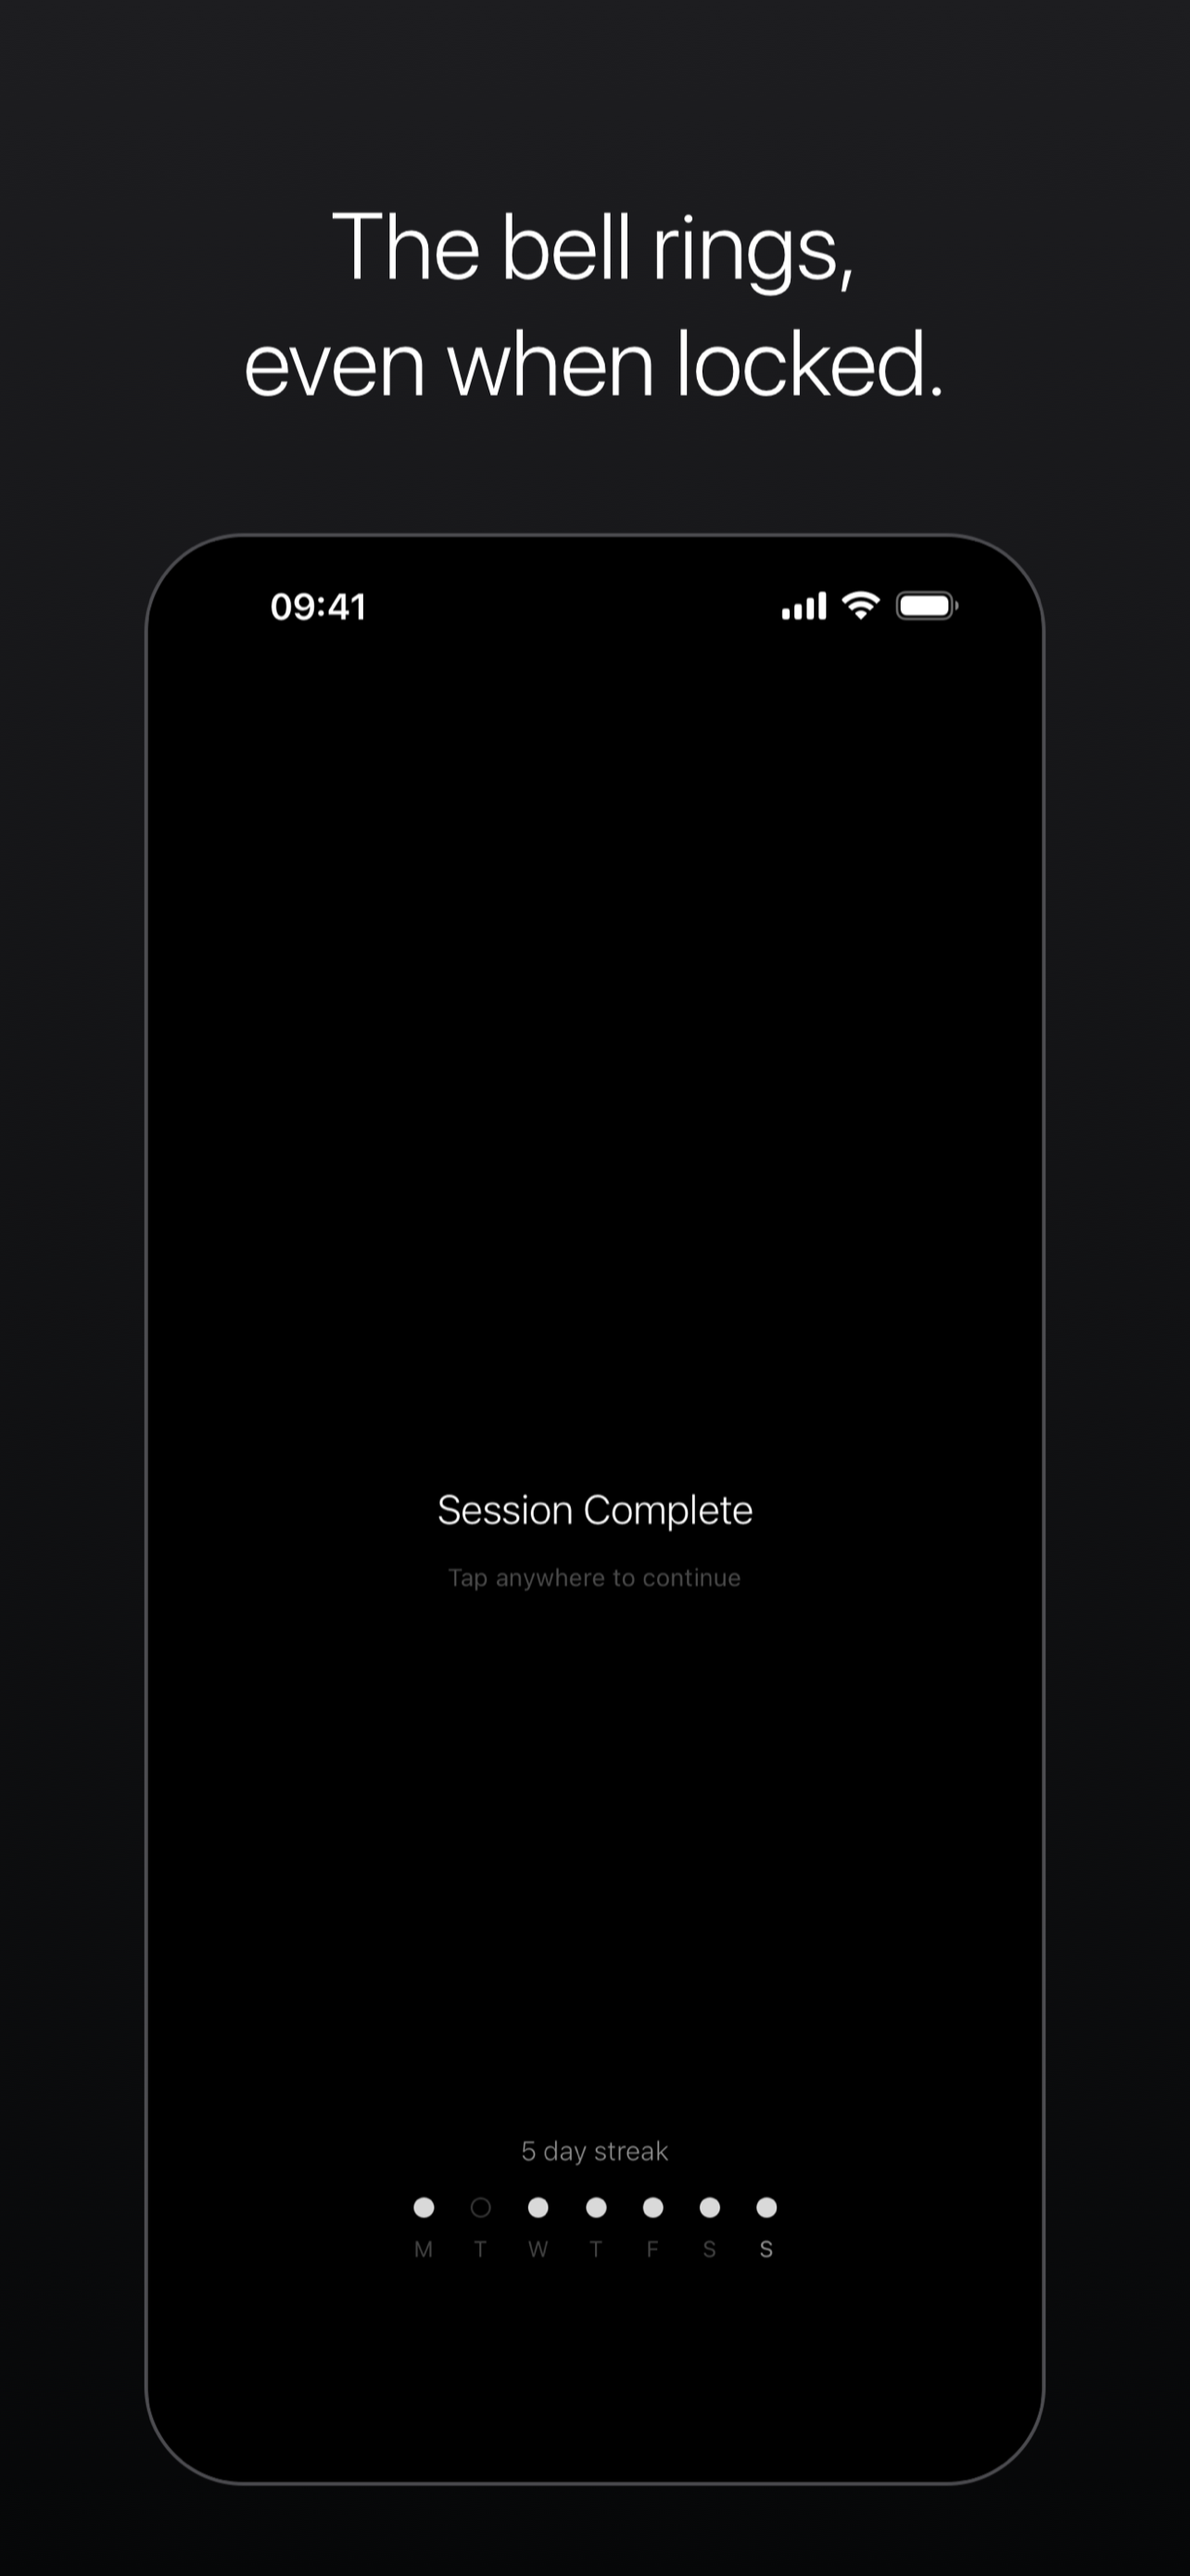
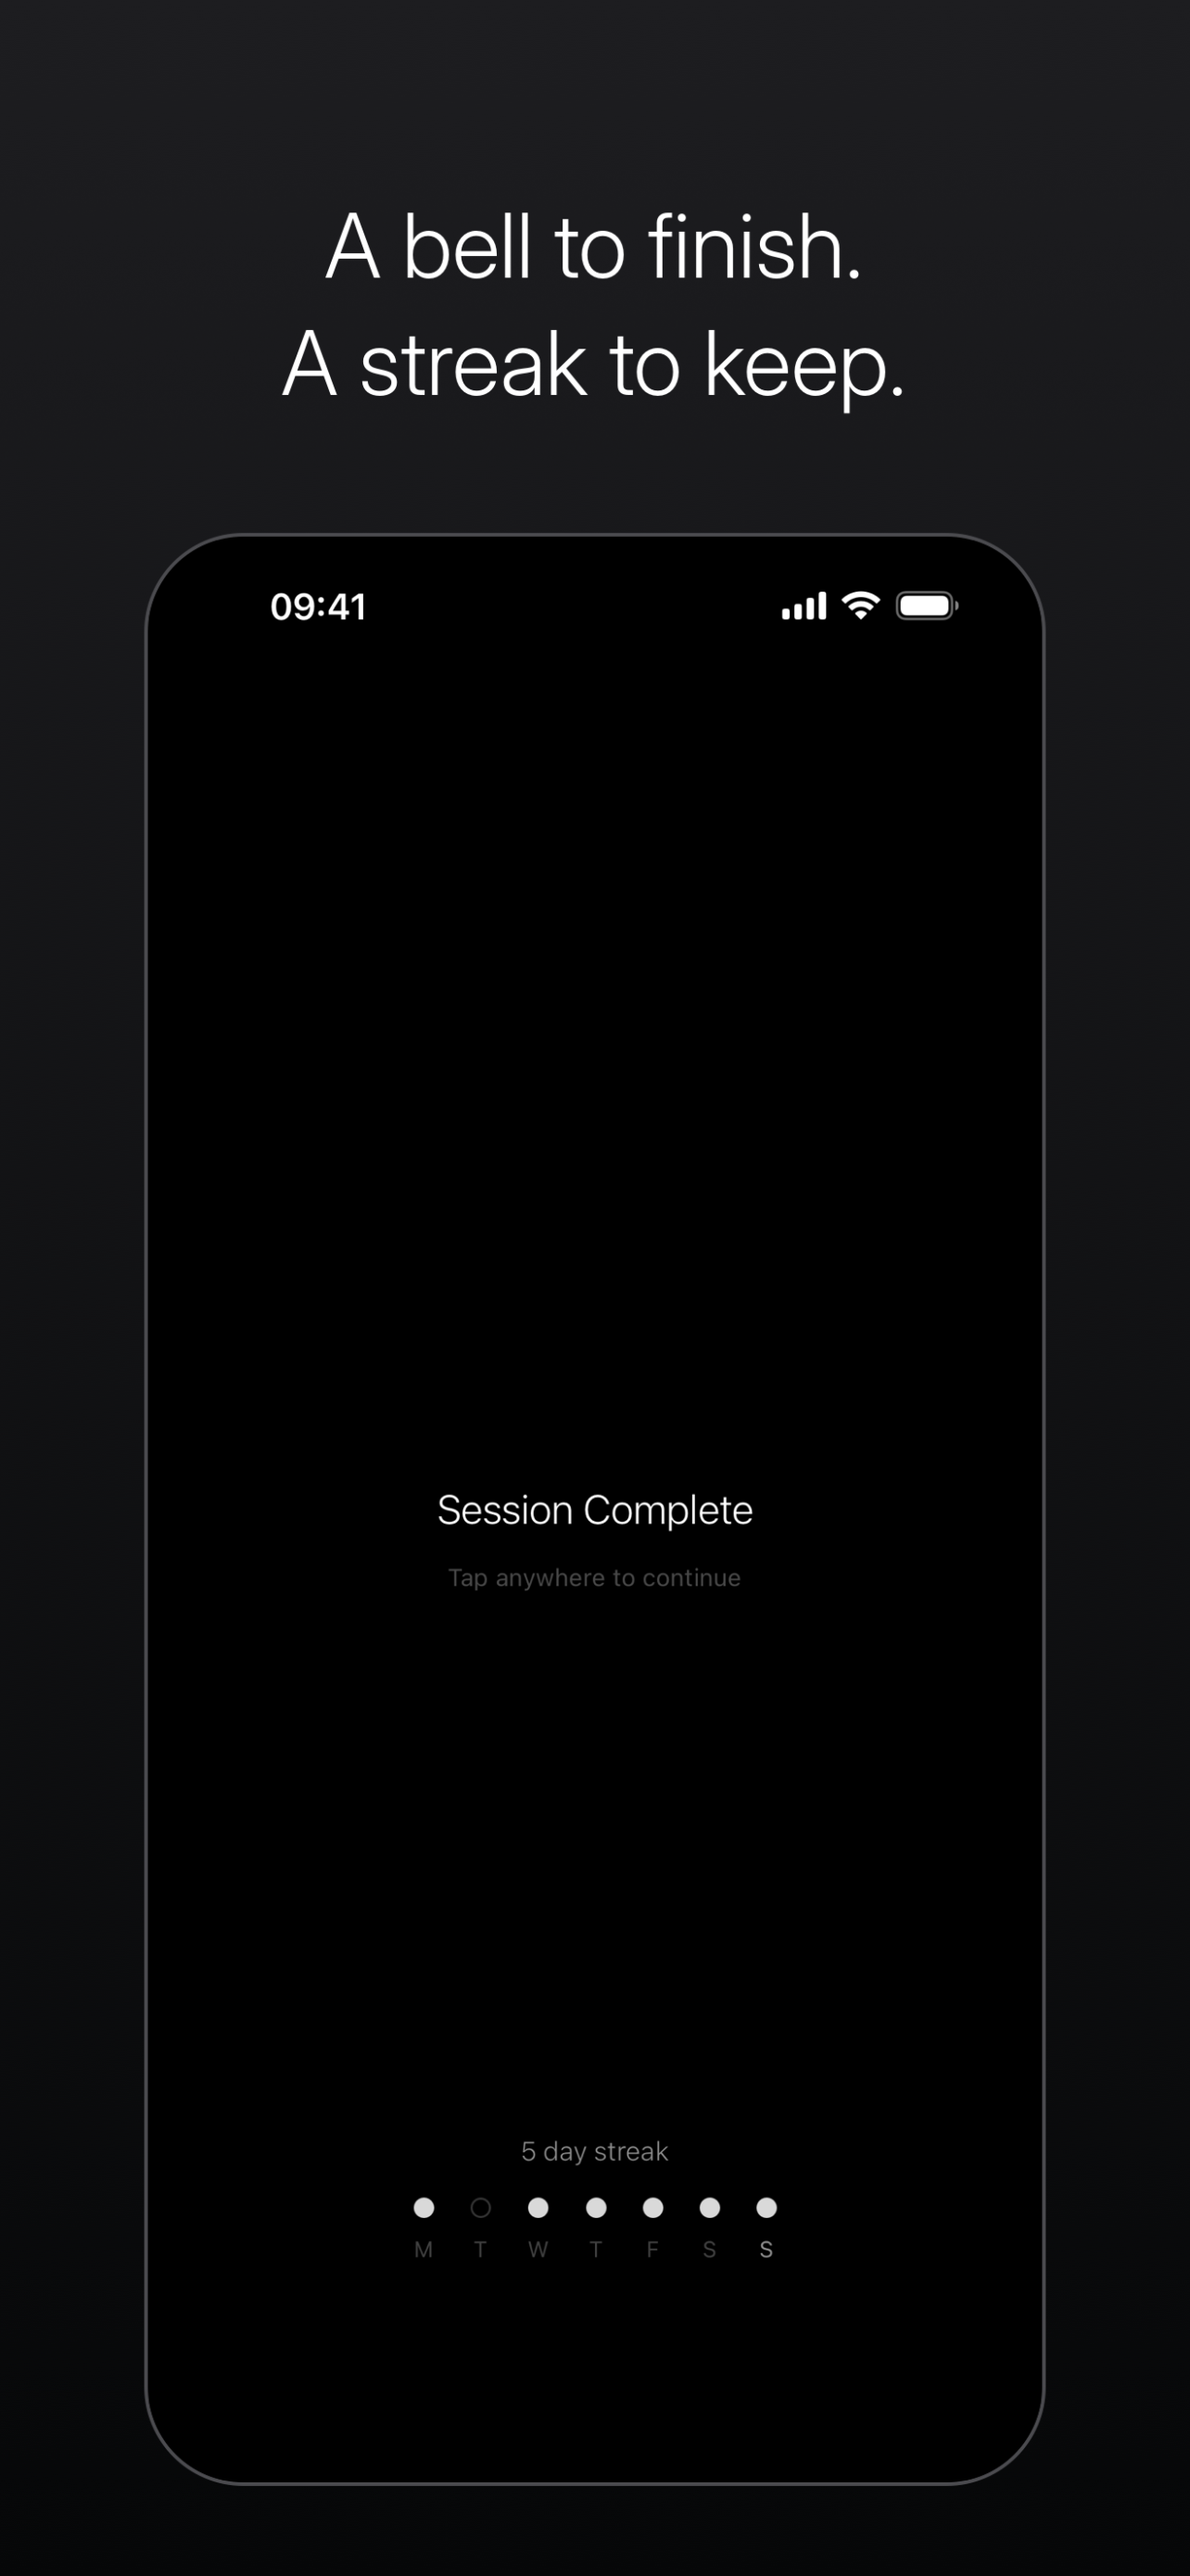
docs: highlight no-permission offline app in listing, recaption complete screenshot
Description and promotional text now spell out: no account, no permissions,
no notifications, works offline, no data collection, no ads or purchases.
Screenshot 4 claimed the bell rings when locked, which stopped being true
when notifications were removed; it now reads "A bell to finish. A streak
to keep." in both the 6.9" and 6.5" captioned sets.

Changed region(s): [[0.1869, 0.0619, 0.7788, 0.1548]]

diff --git a/AppStore/listing.md b/AppStore/listing.md
@@ -20,7 +20,7 @@ Copy these into App Store Connect. Character limits are Apple's; counts were che
 ## Promotional text (170)
 
 ```
-A quiet timer for sitting practice. Choose how long, pick a bell, and press Start. No accounts, no ads, no tracking — just bells and silence.
+A quiet timer for sitting practice. No account, no permissions, no ads, no tracking, and no internet needed. Just bells and silence.
 ```
 
 ## Description (4000)
@@ -37,8 +37,15 @@ MADE FOR SITTING
 • A quiet streak: seven dots show the days you sat this past week
 • Remembers your last duration, bell, and volume
 
-PRIVATE BY DESIGN
-No account. No ads. No analytics. No internet connection needed. Your settings and streak never leave your device.
+NOTHING ELSE
+• No account or sign-up
+• No permissions: the app never asks for access to anything on your phone
+• No notifications
+• No internet connection needed: works fully offline, even in airplane mode
+• No data collection, analytics, or tracking
+• No ads, subscriptions, or in-app purchases
+
+Your settings and the days you sat are stored only on your device. Delete the app and they're gone.
 ```
 
 ## Keywords (100)
@@ -56,7 +63,7 @@ Two sets, same order: plain app screens in `AppStore/screenshots/`, or versions 
 1. `01-setup.png` — streak, duration picker, bells, volume
 2. `02-timer.png` — countdown in progress
 3. `03-paused.png` — paused, with Finish and Resume
-4. `04-complete.png` — session complete, with streak
+4. `04-complete.png` — session complete, with streak (caption: "A bell to finish. A streak to keep.")
 
 If App Store Connect only shows the **6.5" Display** slot, it rejects 1320 × 2868. Use `AppStore/screenshots/captioned-6.5/` instead (1284 × 2778: scaled to width 1284, then about 6px of empty background trimmed from the top and bottom).
 
